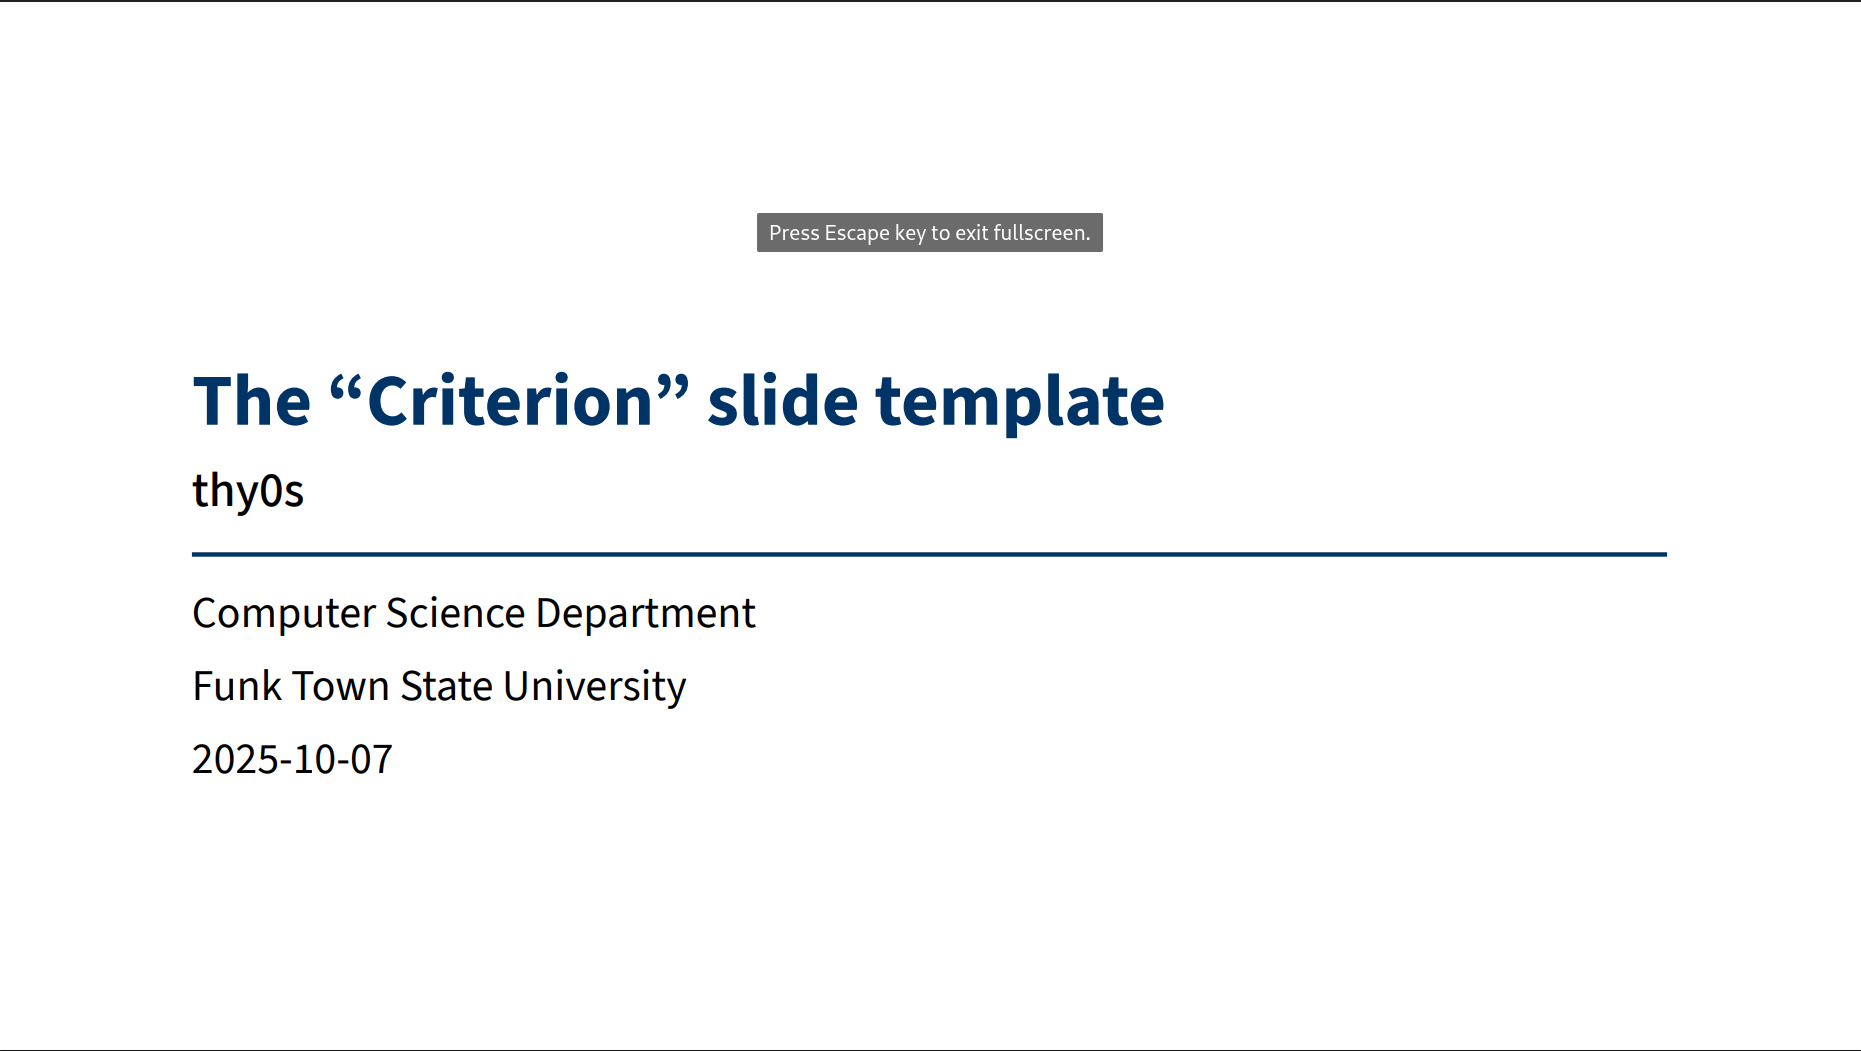
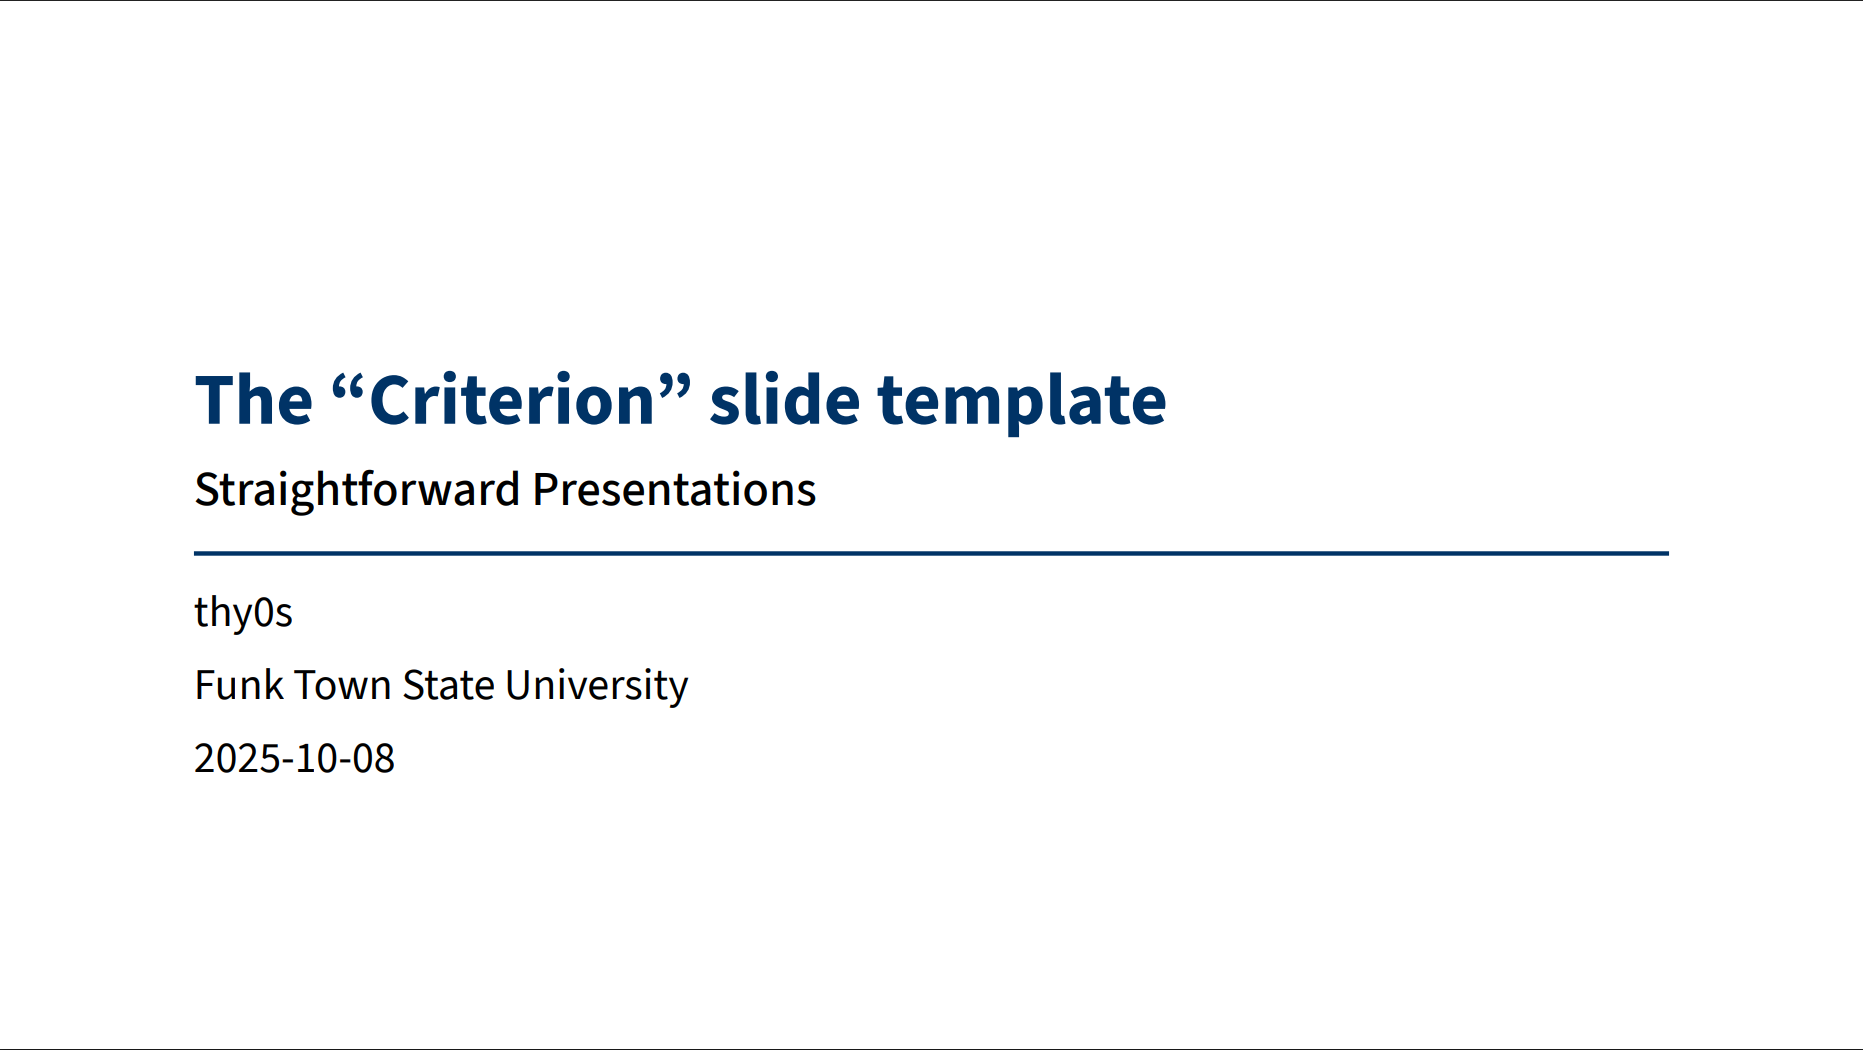
Update README and thumbnail.

diff --git a/README.md b/README.md
@@ -1,19 +1,34 @@
 # touying-criterion
+
+[![Build Document](https://github.com/thy0s/touying-criterion/actions/workflows/build.yml/badge.svg)](https://github.com/thy0s/touying-criterion/actions/workflows/build.yml)
+[![Repo](https://badgen.net/static/GitHub/Repo/blue?icon=github)](https://github.com/thy0s/touying-criterion)
+[![License](https://badgen.net/static/License/MIT/blue)](https://opensource.org/license/mit)
+
 "Criterion" slide master for the [typst](https://typst.app) presentation package [touying](https://touying-typ.github.io). 
 
 It uses the *Source Sans 3* font as default, which can be downloaded [here](https://api.fontsource.org/v1/download/source-sans-3).
 
+
+You can either initialize the template in a new folder with:
 ```bash
 typst init @preview/touying-criterion:0.1.0
 ```
 
+... or import the template to an existing document with:
+
+```typst
+#import "@preview/touying-criterion:0.1.0": *
+```
+
 ## Configuration
+
+Use `#show: touying-criterion.with()` to configure the template as needed.
 
 - `aspect-ratio`: Default is *"16-9"*, alternatively *"4-3"*
 - `lang`: The language of the respective presentation (*default "en"*)
 - `font`: The font of the presentation (*default "Source Sans 3"*)
 - `text-size`: Size of the text content (*default "22pt"*)
-- `show-level-one` (bool) Show section heading on the content slides (*default: true*)
+- `show-level-one`: (bool) Show section heading on the content slides (*default: true*)
 - `footer`: The footer of the content slides (*default: none*)
 
 Other parameters, such as `title`, `subtitle`, `author`, `date` and `institution` are taken from the `config-info` object, which looks as follows: 
@@ -21,8 +36,8 @@ Other parameters, such as `title`, `subtitle`, `author`, `date` and `institution
 ```typst
   config-info(
     title: [The "Criterion" slide template],
-    subtitle: [thy0s],
-    author: [Computer Science Department],
+    subtitle: [Straightforward Presentations],
+    author: [thy0s],
     date: datetime.today(),
     institution: [Funk Town State University],
   )
